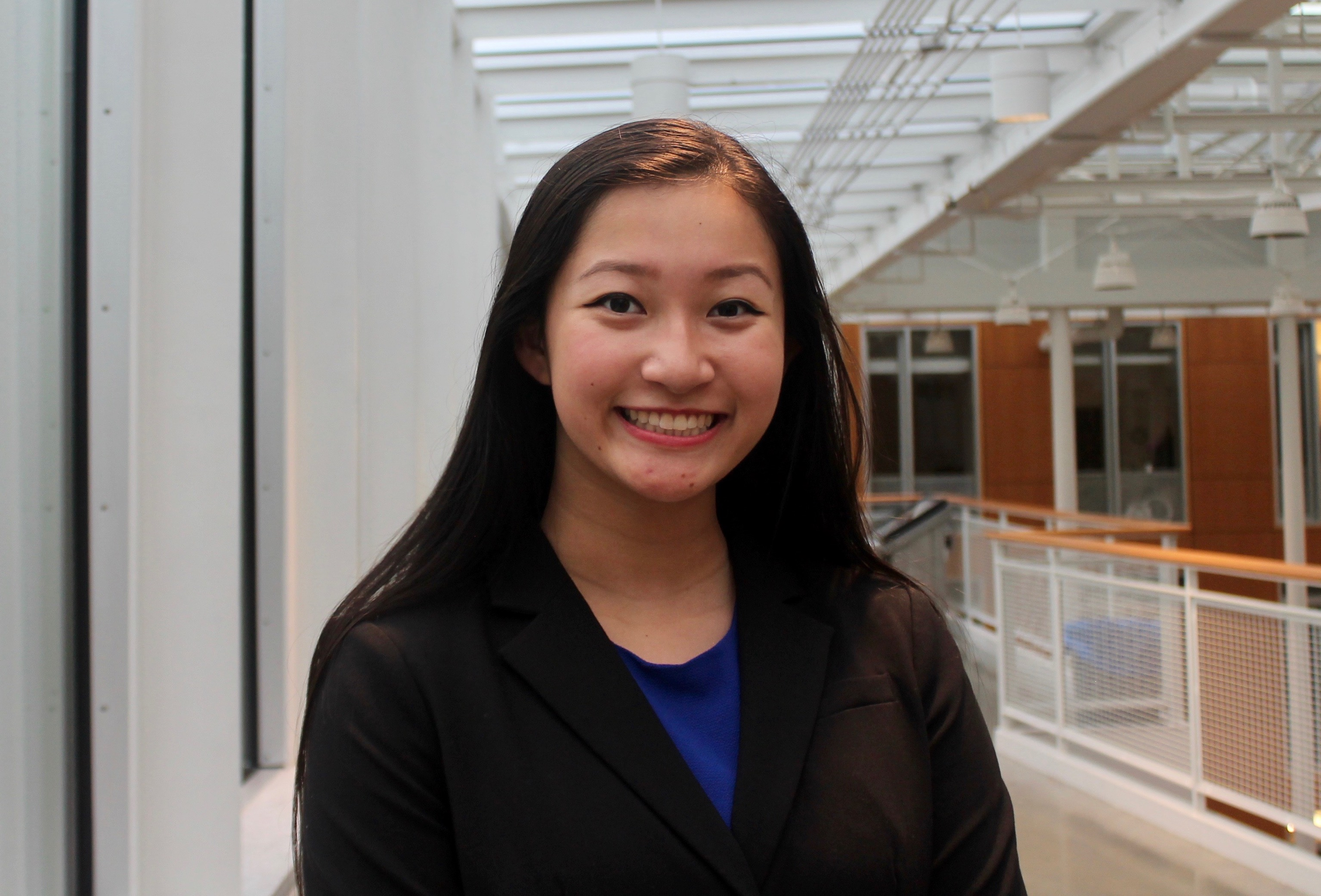
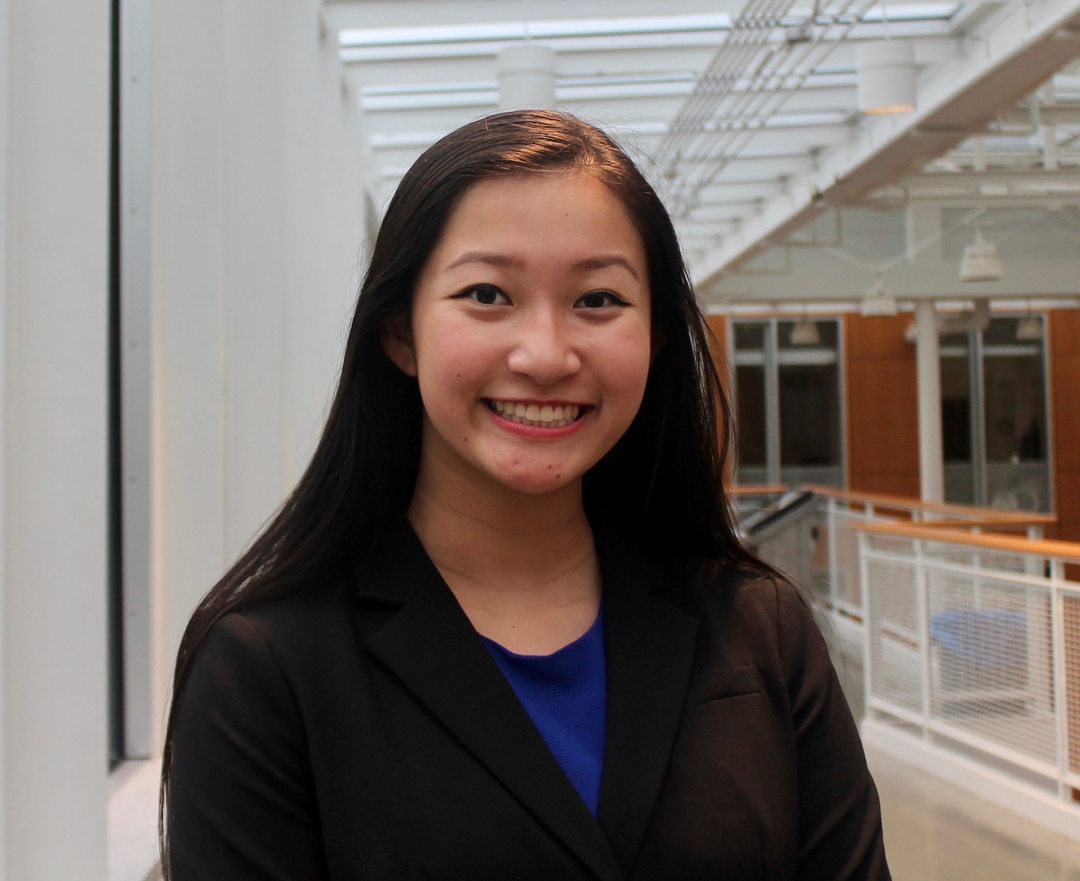
adding video page and updates

diff --git a/video.html b/video.html
@@ -66,8 +66,8 @@
         <div class="row">
           <div class="col-lg-8 col-md-10 mx-auto">
             <div class="page-heading">
-              <h1>Contact Me</h1>
-              <span class="subheading">I'm always open to chat</span>
+              <h1>1 Second A Day</h1>
+              <span class="subheading">Documenting my life, one second at a time</span>
             </div>
           </div>
         </div>
@@ -78,51 +78,25 @@
     <div class="container">
       <div class="row">
         <div class="col-lg-8 col-md-10 mx-auto">
-          <p>Want to get in touch? Feel free to email me at ykatieli@gmail.com, or message me through social media. If you'd like to meet, coffee's on me.</p>
-          <!-- Contact Form - Enter your email address on line 19 of the mail/contact_me.php file to make this form work. -->
-          <!-- WARNING: Some web hosts do not allow emails to be sent through forms to common mail hosts like Gmail or Yahoo. It's recommended that you use a private domain email address! -->
-          <!-- To use the contact form, your site must be on a live web host with PHP! The form will not work locally! -->
-          <!--
-          <form name="sentMessage" id="contactForm" novalidate>
-            <div class="control-group">
-              <div class="form-group floating-label-form-group controls">
-                <label>Name</label>
-                <input type="text" class="form-control" placeholder="Name" id="name" required data-validation-required-message="Please enter your name.">
-                <p class="help-block text-danger"></p>
-              </div>
-            </div>
-            <div class="control-group">
-              <div class="form-group floating-label-form-group controls">
-                <label>Email Address</label>
-                <input type="email" class="form-control" placeholder="Email Address" id="email" required data-validation-required-message="Please enter your email address.">
-                <p class="help-block text-danger"></p>
-              </div>
-            </div>
-            <div class="control-group">
-              <div class="form-group col-xs-12 floating-label-form-group controls">
-                <label>Phone Number</label>
-                <input type="tel" class="form-control" placeholder="Phone Number" id="phone" required data-validation-required-message="Please enter your phone number.">
-                <p class="help-block text-danger"></p>
-              </div>
-            </div>
-            <div class="control-group">
-              <div class="form-group floating-label-form-group controls">
-                <label>Message</label>
-                <textarea rows="5" class="form-control" placeholder="Message" id="message" required data-validation-required-message="Please enter a message."></textarea>
-                <p class="help-block text-danger"></p>
-              </div>
-            </div>
-            <br>
-            <div id="success"></div>
-            <div class="form-group">
-              <button type="submit" class="btn btn-primary" id="sendMessageButton">Send</button>
-            </div>
-          </form>
-        -->
+
+          <blockquote class="blockquote text-center">The secret to getting ahead is getting started.</blockquote>
+          <p>Since the first day my senior year of high school, I have been documenting a second (or two) of my life every day. I am over two years into this journey, and have absolutely no regrets. I have noticed that I am able to remember my days more clearly, and strive to make life more interesting. I do not plan to stop recording the precious moments in everyday life, and encourage you to try this out as well. Take out your phone camera, and record a quick second. You'll wish you had started sooner.</p>
+
+          <hr>
+
+          <p class="page-heading text-center">Cornell University: Freshman Year 2017-2018</p>
+          <div class="col-lg-10 col-md-10 mx-auto">
+            <iframe width="560" height="315" src="https://www.youtube.com/embed/4_FcAuv87-4" frameborder="0" allow="accelerometer; autoplay; encrypted-media; gyroscope; picture-in-picture" allowfullscreen></iframe>
+          </div>
+
+          <p class="page-heading text-center">Allen High School: Senior Year Highlights 2016-2017</p>
+          <div class="col-lg-10 col-md-10 mx-auto">
+            <iframe width="560" height="315" src="https://www.youtube.com/embed/p_n7zkkdRck" frameborder="0" allow="accelerometer; autoplay; encrypted-media; gyroscope; picture-in-picture" allowfullscreen></iframe>
+          </div>
+
         </div>
       </div>
     </div>
-    <hr>
 
     <!-- Footer -->
     <footer>
@@ -174,8 +148,8 @@
                   </span>
                 </a>
               </li>
-
-            </ul>
+       
+          	</ul>
             <p class="copyright text-muted">Copyright &copy; Katie Li 2018</p>
           </div>
         </div>
@@ -185,10 +159,6 @@
     <!-- Bootstrap core JavaScript -->
     <script src="vendor/jquery/jquery.min.js"></script>
     <script src="vendor/bootstrap/js/bootstrap.bundle.min.js"></script>
-
-    <!-- Contact Form JavaScript -->
-    <script src="js/jqBootstrapValidation.js"></script>
-    <script src="js/contact_me.js"></script>
 
     <!-- Custom scripts for this template -->
     <script src="js/clean-blog.min.js"></script>

diff --git a/projects.html b/projects.html
@@ -49,6 +49,9 @@
               <a class="nav-link" href="experience.html">Experience</a>
             </li>
             <li class="nav-item">
+              <a class="nav-link" href="video.html">Video</a>
+            </li>
+            <li class="nav-item">
               <a class="nav-link" href="contact.html">Contact</a>
             </li>
           </ul>
@@ -79,40 +82,59 @@
 
             <p> *** This page is currently under construction *** </p>
 
+            <h2 class="section-heading">This Website</h2>
+            <span class="subheading">Late November 2018</span>
+
+            <p>I wanted to learn more about web development. This website was mostly bootstrapped using Start Bootstrap's Clean Blog theme. Future additions to this site: blog, video portfolio (1 Second a Day compilation videos since Aug 2016), resources compilation (for favorite books, health/fitness, minimalism, and bullet journaling).</p>
+            <p>Skills Used: Bootstrap, HTML, CSS, Git</p>
+
             <h2 class="section-heading">Batch Waypoint Editor</h2>
             <span class="subheading">CUAir Fall 2018</span>
 
-            <p>Streamlines moving around waypoints by the batch</p>
+            <p>Streamlines moving around waypoints by the batch on Autopilot's custom ground control station</p>
+            <p>Skills Used: Python, JavaScript, Linux, Git</p>
 
             <h2 class="section-heading">Lidar Research</h2>
             <span class="subheading">CUAir Fall 2018</span>
 
             <p>Looking into a new lidar to put on our unmanned ground vehicle (which will be dropped from our plane during flight)</p>
+            <p>Skills Used: lidar research</p>
 
             <h2 class="section-heading">Autonomous Rolling Takeoff & Landing</h2>
             <span class="subheading">CUAir Spring 2018, Fall 2018</span>
 
             <p>Working on making it possible/safe for Bixler planes and Orion (our competition plane for 2018-2019) to takeoff and land autonomously on wheels</p>
+            <p>Tools/Skills Used: wheel research, Bixler planes, <a href="http://ardupilot.org/ardupilot/"> Ardupilot</a> parameters, Linux, Git</p>
 
             <h2 class="section-heading">Ground Coverage</h2>
-            <span class="subheading">CUAir Spring 2018</span>
+            <span class="subheading">CUAir Late Fall 2017, Spring 2018</span>
 
-            <p>Enables user to visualize camera image coverage of the field on CUAir Autopilot's custom ground control station</p>
+            <p>Enables user to visualize camera image coverage of the field on Autopilot's custom ground control station</p>
+            <p>Skills Used: Python, JavaScript, Postman, Platform subteam's API, Linux, Git</p>
+
+            <h2 class="section-heading">Bixler Planes</h2>
+            <span class="subheading">CUAir Fall 2017, Spring 2018</span>
+
+            <p>Put together 3 Bixler planes, and configured our Pixhawk 2.1 autopilot</p>
+            <p>Tools/Skills Used: epoxy, Pixhawk 2.1 autopilot + GPS, wiring</p>
 
             <h2 class="section-heading">BigRedNotes</h2>
             <span class="subheading">BigRed//Hacks Fall 2017 Project</span>
 
             <p>Awards: Best Technical Feat, Most Innovative, Top 10</p>
+            <p>Skills Used: Python, PHP, Microsoft Azure, Twilio, YouTube API</p>
 
             <h2 class="section-heading">Arduino LED Cube</h2>
             <span class="subheading">Senior Year AP/GT English Project, Spring 2017</span>
 
-            <p>Part of my independent study project: Building with Code</p>
+            <p>Part of my independent study project: Building with Code. I used 64 LEDs and an Arduino board to make a cube that can light up in patterns. You can learn more about the project <a href="https://klisp.weebly.com/"> here </a></p>
+            <p>Tools/Skills Used: soldering, Arduino board, LEDs</p>
 
             <h2 class="section-heading">FRC 5417 Computer Vision</h2>
             <span class="subheading">Senior Year AP/GT English Project, Spring 2017</span>
 
-            <p>Part of my independent study project: Building with Code. Worked on making it possible for my robotics team's 2016-2017 competition robot accurately depict reflective tape and deliver gears onto pegs.</p>
+            <p>Part of my independent study project: Building with Code. I wrote code that made it possible for my robotics team's 2016-2017 competition robot to accurately depict reflective tape and deliver gears onto pegs. You can learn more about the project <a href="https://klisp.weebly.com/"> here </a></p>
+            <p>Skills Used: Java, OpenCV, Git</p>
 
           </div>
         </div>

diff --git a/about.html b/about.html
@@ -49,6 +49,9 @@
               <a class="nav-link" href="experience.html">Experience</a>
             </li>
             <li class="nav-item">
+              <a class="nav-link" href="video.html">Video</a>
+            </li>
+            <li class="nav-item">
               <a class="nav-link" href="contact.html">Contact</a>
             </li>
           </ul>
@@ -77,13 +80,14 @@
         <div class="col-lg-8 col-md-10 mx-auto">
 
           <div class="col-lg-7 col-md-8 mx-auto">
-                  <img class="img-fluid" src="img/ykatieli.jpg" alt="">
-                </div>
+            <img class="img-fluid" src="img/ykatieli.jpg" alt="">
+          </div>
 
-          <p>Hello, I'm Katie. I am a sophomore and Jacobs Scholar at Cornell University, majoring in Operations Research & Information Engineering, and minoring in both Computer Science and Electrical & Computer Engineering. I'm from Dallas, Texas, and graduated from Allen High School in June 2017.</p>
+          <p>Hello, I'm Katie. I am a 19-year-old sophomore and Jacobs Scholar at Cornell University, majoring in Operations Research & Information Engineering, and minoring in both Computer Science and Electrical & Computer Engineering. I'm from Dallas, Texas, and graduated from Allen High School in June 2017.</p>
           <p>On campus, I am an autopilot engineer on <a href="https://cuair.org"> CUAir </a>, the Executive Co-Director of <a href="https://bigredhacks.com/"> BigRed//Hacks </a>, and the Professional Chair for <a href="http://aoecornell.com/about.html"> Alpha Omega Epsilon </a>. In addition, I am the Cornell Ambassador for <a href="https://www.sequoiacap.com/"> Sequoia Capital </a>, a venture capital firm based in San Francisco. I am also a <a href="https://rewritingthecode.org/fellowship-program/"> Rewriting the Code </a> fellow. </p>
-          <p>UAV technology, robotics, and venture capital currently pique my curiosity. I also love pandas, Rick and Morty, Ford Mustangs, and watermelon. In my free time, I enjoy bullet journaling, reading, and ice skating.</p>
-          <p>My Myers-Briggs Type Indicator is ENTJ-T (Extraverted iNtuitive Thinking Judging). If you'd like, you can find out your personality type <a href="https://www.16personalities.com/free-personality-test"> here.</a></p>
+          <p>UAV technology, robotics, startups, and venture capital currently pique my curiosity. I absolutely love pandas, Rick and Morty, Ford Mustangs, and watermelon. In my free time, I enjoy bullet journaling, reading, and ice skating.</p>
+          <p>When I was 15, I made it a life goal of mine to visit 30 national parks before I'm 30. So far, I've been to 11 national parks: Hot Springs, Grand Canyon, Grand Teton, Yellowstone, Yosemite, Sequoia, Jasper (Canada), Banff (Canada), Yoho (Canada), Glacier (Canada), and Mount Revelstoke (Canada). 36.67% of the way there! I've also roadtripped from Texas-Florida and Texas-California before.
+          <p>My Myers-Briggs Type Indicator is ENTJ-T (Extraverted iNtuitive Thinking Judging). I definitely recommend finding out your personality type <a href="https://www.16personalities.com/free-personality-test"> here.</a></p>
           <blockquote class="blockquote">If you don't build your dreams, someone will hire you to help build theirs.</blockquote>
 
         </div>

diff --git a/index.html b/index.html
@@ -53,6 +53,9 @@
               <a class="nav-link" href="experience.html">Experience</a>
             </li>
             <li class="nav-item">
+              <a class="nav-link" href="video.html">Video</a>
+            </li>
+            <li class="nav-item">
               <a class="nav-link" href="contact.html">Contact</a>
             </li>
           </ul>
@@ -67,12 +70,9 @@
         <div class="row">
           <div class="col-lg-8 col-md-10 mx-auto">
             <div class="site-heading">
-              <a href="#">
-                <div class="col-lg-7 col-md-8 mx-auto">
-                  <img class="img-fluid" src="img/profile.jpg" alt="">
-                </div>
-              </a>
-              
+              <div class="col-lg-6 col-md-8 mx-auto">
+                <img class="img-fluid" src="img/profile.jpg" alt="">
+              </div>
               <h1>Hi, I'm Katie Li</h1>
               <span class="subheading">I'm a student, engineer, and dreamer.</span>
             </div>

diff --git a/experience.html b/experience.html
@@ -49,6 +49,9 @@
               <a class="nav-link" href="experience.html">Experience</a>
             </li>
             <li class="nav-item">
+              <a class="nav-link" href="video.html">Video</a>
+            </li>
+            <li class="nav-item">
               <a class="nav-link" href="contact.html">Contact</a>
             </li>
           </ul>
